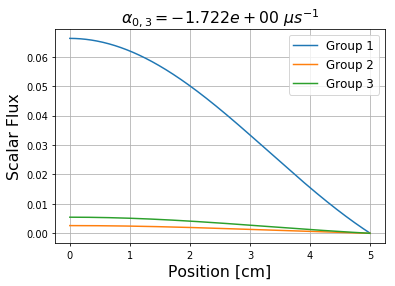
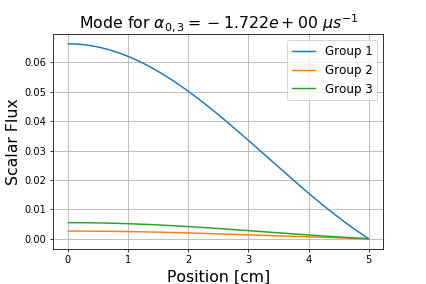
Added thermal mode plots and small corrections.

Changed region(s): [[0.0, 0.0282, 1.0, 1.0]]

diff --git a/DMD_neutronics.tex b/DMD_neutronics.tex
@@ -275,7 +275,7 @@ While such modeling can certainly be done with a time-dependent transport code,
 	problems quickly and compute sensitivities economically. 
 One method of developing a reduced-order model is a truncated
 	$\alpha$-eigenfunction expansion. 
-To the author's knowledge, no proof of the incompleteness of the alpha 
+To the authors' knowledge, no proof of the incompleteness of the alpha 
 	eigenfunctions exists. 
 It seems, however, that because of the singular nature of the uncollided and    
 	first collided flux \cite{bondarenko1996}$^,$\cite{larsen1975} , the $\alpha$-eigenfunctions likely do not form a 
@@ -841,7 +841,7 @@ In this section numerical results are presented which characterize the
 The DMD solution presented in this section is derived from data produced by the 
 	numerical model discussed above for a 5 cm sphere over a 10 ns simulation 
 	time discretized into 500 spatial cells and 30 time-steps.
-Seperate sections will describe the application of DMD on both the scalar 
+Separate sections will describe the application of DMD on both the scalar 
 	group flux and the fission rate.
 Each section will present the singular value spectrum for the simulation data,
 	show the convergence of the DMD solution to the simulation data in the 
@@ -950,7 +950,8 @@ It is clear that DMD models this system to a similar degree of accuracy
 For this case specifically, as time passes, all higher order modes become less
 	relevant to the solution.
 These results suggest that the DMD solution captured the dynamics of the longer
-	lived modes such that as the system settles into thos modes, DMD does as well.
+	lived modes such that as the system settles into those modes, DMD does as 
+	well.
 More information related to this is presented at a later point.
 
 With the DMD code verified, and its capabilities thoroughly investigated, it is 
@@ -990,18 +991,39 @@ To demonstrate the ability of DMD to extract relevant structures and produce
 	those from the $\alpha$-eigenfunction expansion.
 Because no thermals exist in the system, the computed amplitudes of each 
 	thermal mode is zero, however, they must still be computed before any 
-	relevant modes are obtained in a standard $\alpha$-eigenvalue solver. 
+	relevant modes are obtained in a standard $\alpha$-eigenvalue solver.
+The first 3 thermal modes are shown below in \FI{thermal-modes}.
+These are compared to the first 3 dynamic modes to highlight the ability of 
+	DMD to produce relevant modes to the system - modes which contain no
+	thermal neutrons.
+The $\alpha$ modes are denoted as such, and the DMD modes denoted with $\omega$.
+Each mode is normalized to its $L^2$ norm, so that an accurate comparison can 
+	be made.
+
+\bfg[!htb] \centering
+	$
+	\begin{array}{c c}
+	\includegraphics[scale=0.5]{alpha0-3.png}
+	\includegraphics[scale=0.5]{dmd0.png} \\
+	\includegraphics[scale=0.5]{alpha1-3.png}
+	\includegraphics[scale=0.5]{dmd1.png} \\
+	\end{array}
+	$
+	\includegraphics[scale=0.5]{alpha2-3.png}
+	\includegraphics[scale=0.5]{dmd2.png}
+	\caption{Comparison of first 3 thermal and dynamic modes.}
+	\LFI{thermal-modes}
+\efg
+
 The exact solution is composed of many structures which describe the physics of
 	the underlying system. 
 For this reason, it is expected that the DMD modes bear so resemblence to them.
 To show this, the eigenvalues and eigenfunctions of the first 3 epithermal 
 	modes of the $\alpha$-eigenfunction expansion and dynamic modes are compared 
 	in \FI{modes}.
-The epithermal modes are used becuase no thermal modes exist in the system.
-The $\alpha$ modes are denoted as such, and the DMD modes denoted with $\omega$.
-Each mode is normalized to its $L^2$ norm, so that an accurate comparison can 
-	be made.
-	
+Because no thermal modes contribute to the system, the epithermal modes, in
+	fact, set the decay rates for this problem.
+
 \bfg[!htb] \centering
 	$
 	\begin{array}{c c}
@@ -1017,16 +1039,18 @@ Each mode is normalized to its $L^2$ norm, so that an accurate comparison can
 	\LFI{modes}
 \efg
 
-The fundamental epithermal mode and the first dynamic mode are visibly
-	indistinguishable, and have identical decay constants.
-The shapes of the second mode appear to be seemingly identical, and the DMD 
+In contrast to the previous comparison, the fundamental epithermal mode and the 
+	first dynamic mode are visibly indistinguishable, and have identical decay 
+	constants.
+The shapes of the second mode appear to be nearly identical, and the DMD 
 	decay constant is slightly different.
 In the third mode, the general shape is similar but there are wide deviations 	
 	in the magnitudes of each component, respectively, and again, the eigenvalue 
 	further drifts away from that of the $\alpha$-eigenfunction.
 Because only a finite number of dynamic modes represent the system, it is not 
 	reasonable to reproduce more than a few modes accurately because the dynamic 
-	modes achieve the same level of accuracy as many of the $\alpha$-eigenmode.
+	modes achieve the same level of accuracy as a much larger number of the 
+	$\alpha$-eigenmodes.
 One could say that, in a sense, some of the dynamic modes are a combination of 	
 	several	$\alpha$-eigenmodes.
 
@@ -1034,8 +1058,8 @@ These results give a clear indication of the applicability of DMD to these
 	applications.
 It not only showed greater efficiency than an $\alpha$-eigenvalue computation, 
 	but also preserved the physical insights which can be gained.
-Further, the DMD solution produced accurate results both on and in between 
-	snapshots as well as far after the sampling period.
+Further, the DMD solution produced accurate results both at snapshot samplinf 
+times and in between them, as well as far after the sampling period.
 
 \subsection{DMD with the Fission Rate}
 For real applications, the size of solution vector may become restrictively 
@@ -1131,22 +1155,31 @@ An initial study to characterize the perfomance of DMD on fast, subcritical,
 It was shown that not only can DMD be applied to these problems successfully,
 	but that DMD shows far superior efficiency to other methods while retaining 
 	the same level of physical insight.
-Unlike in an $\alpha$-eigenfunction expansion, where many thermal modes with 
+Unlike an $\alpha$-eigenfunction expansion, where many thermal modes with 
 	zero-amplitudes must be computed before contibuting modes, dynamic modes, 
 	because they are data driven, are guaranteed to be relevant to the solution.
 In fact, no thermal neutrons are present in any dynamic modes.
 The continuous DMD solution did not lose accuracy when interpolating between 
-	snapshots, and proved to maintain accuracy for near-future state predictions.
+	snapshots, and proved to maintain accuracy beyong the last sampling time.
+It should be stressed that the extrapolative capabilites of DMD are expected to 
+	be problem dependent.
 
+The ultimate goal for this work is to develop an emulator uses DMD solutions
+	evaluated at various points in a physical parameter space to accurately and 
+	efficiently interpolate within that parameter space.
 Much work needs to be done to fully characterize DMD's applicability for these
-	applications.
-This work needs to be expanded to characterize non-linearities.
-This is anticipated to be successful because the most notable applications of
-	DMD are on turbulent fluid flow, which is nonlinear.
+	applications, before this is possible, however.
+This work needs to be expanded to characterize the performance of DMD
+	on non-linear systems.
+This is anticipated to have success because the most notable applications of
+	DMD in the literature are on non-linear turbulent fluid flow 
+	\cite{dmd2016}$^,$\cite{schmid2010} .
 Further, work should be done to characterize its application to dynamic
-	geometries and on coupled systems.
+	geometries and coupled systems.
 Lastly, the exploration of different flavors of the DMD algorithm should be 
-	explored in order to find the type best suited to this application space.
+	explored in order to find the best tailored algorithm for problems within 
+	this application space.
+
 
 \setlength{\baselineskip}{12pt}
 \bibliographystyle{abbrv}
